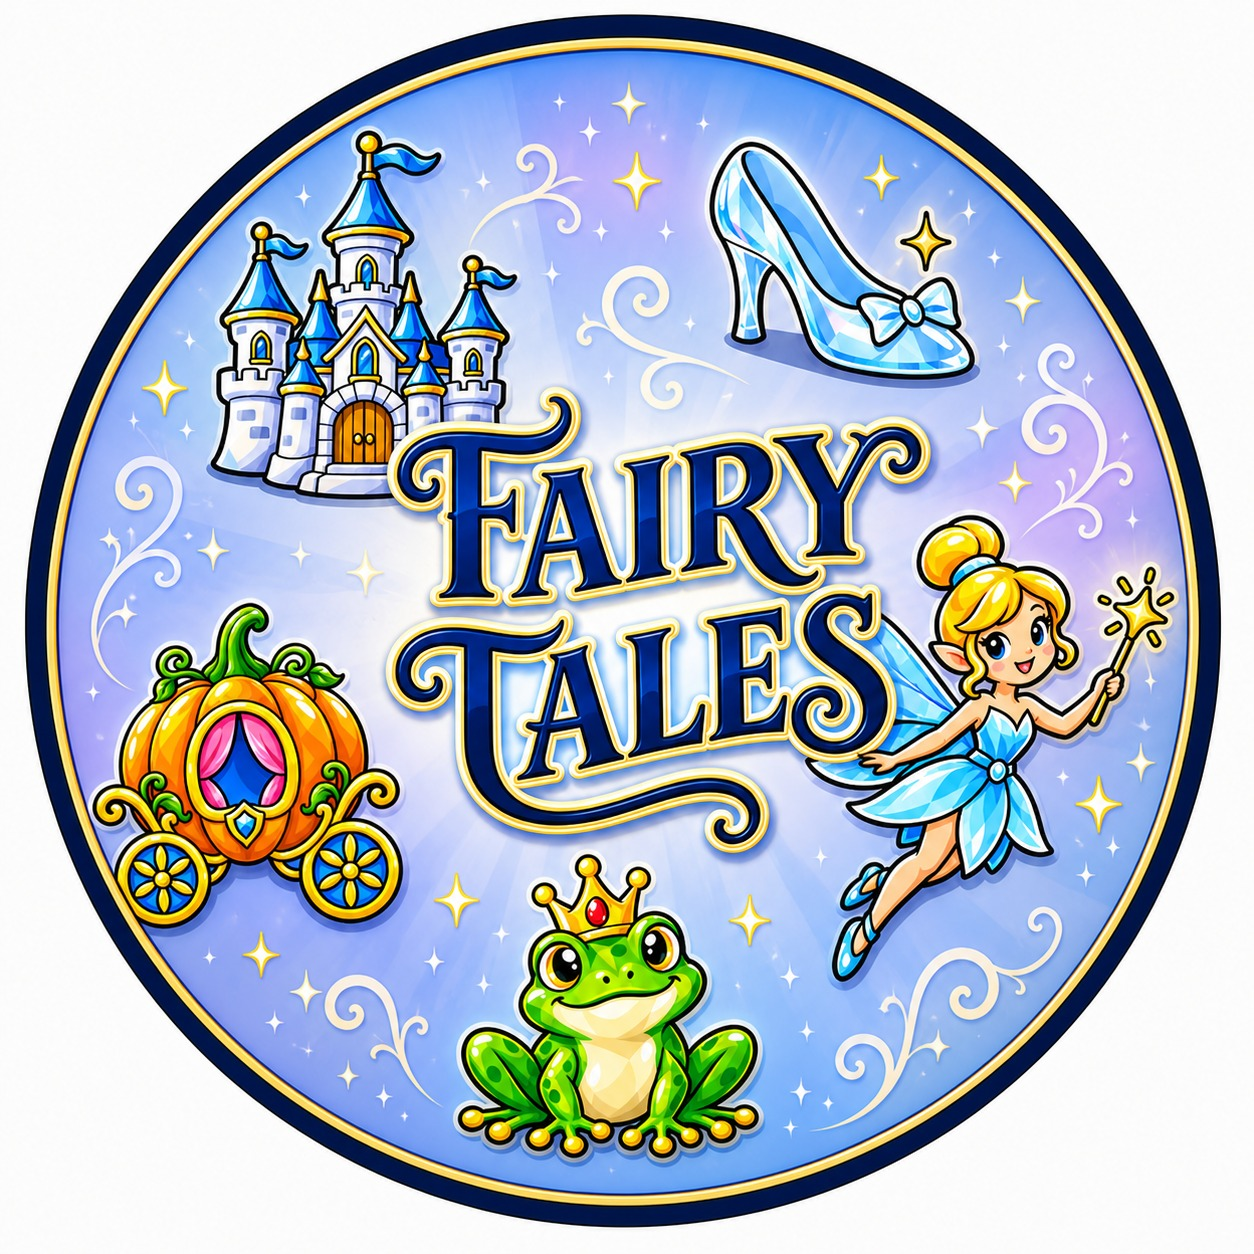
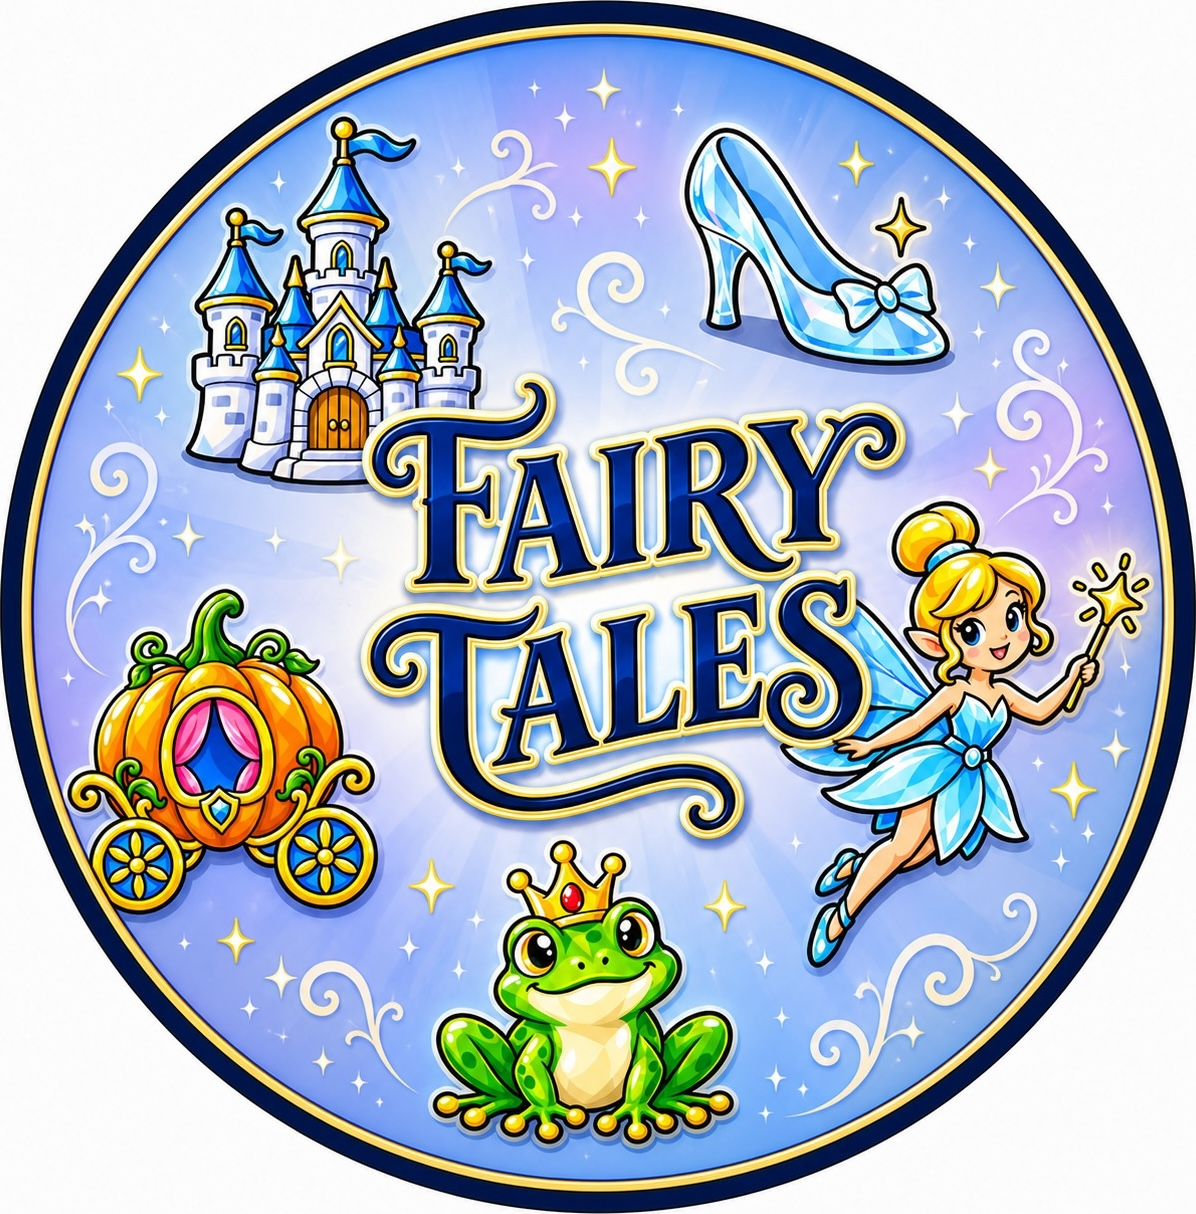
Keep fairytale back artwork within card edge

diff --git a/themes/fairytale/README.md b/themes/fairytale/README.md
@@ -36,7 +36,7 @@ home-printed game.
 | file | content |
 |---|---|
 | `raw/NNN_name.png` | the 57 symbols, transparent PNGs, `prepare` only trims them |
-| `back.jpg` | card back; `back_zoom` 1.1 pushes its navy ring past the cut line so small duplex shifts stay hidden |
+| `back.jpg` | card back; `back_zoom` 1.0 keeps the complete artwork inside the cut line |
 | `symbols.txt` | numbered concept list read by `generate.py` |
 | `prompt.txt` | prompt template; the block after "Copy/paste prompt" is sent, with the bracketed fields filled per concept |
 | `reference/` | style reference image and the prompt that produced it |
